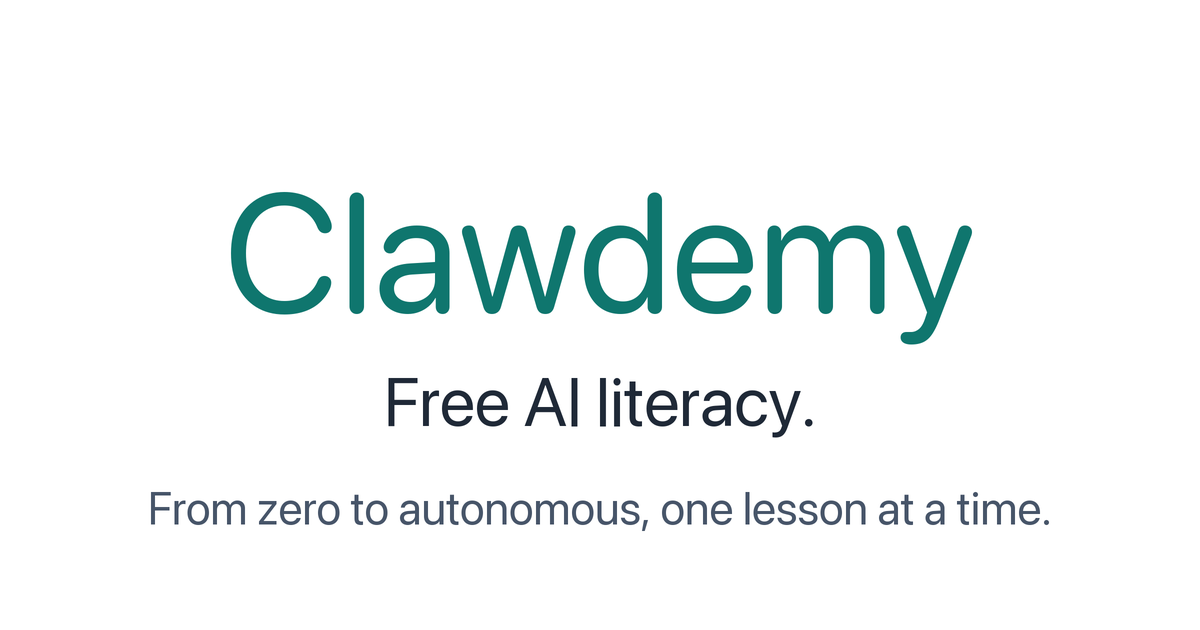
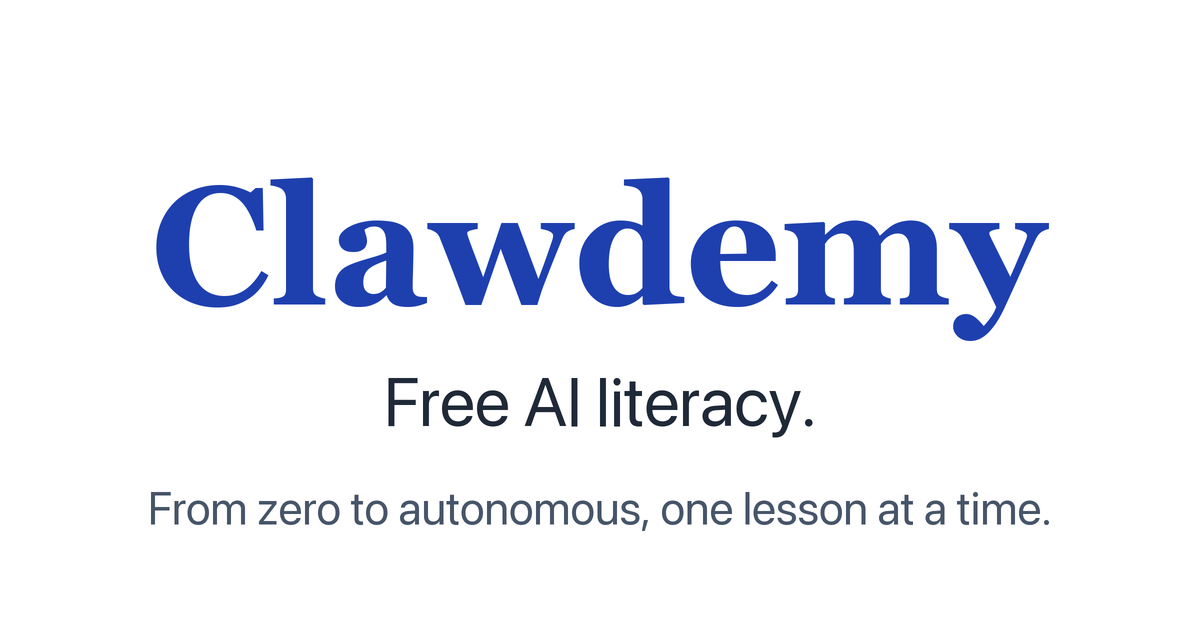
og: re-do Clawdemy OG to match RBJ-family typography (Georgia Bold)
Founder feedback on the prior Clawdemy OG (aaaa3e3, teal-700 +
SF Pro Rounded): "Clodemy should match Clawless if possible. White
background, bluish... Your design should match the way you build
RBJ Global. RBJ Global is the parent, and the rest of them are
siblings, so they should have resemblances to RBJ Global."

## Changes

- **Wordmark color: teal-700 #0F766E → blue-700 #1E40AF** ("bluish"
  per founder direction). Distinct from WhisprDesk's royal blue
  #1F49C4 (different hue/saturation) and from Clawless's cyan-700
  #0E7490 (cyan-leaning vs Clawdemy's true blue). Each sibling
  carries its own color identity while staying in the cool-color
  half of the family.
- **Wordmark font: SF Pro Rounded → Georgia Bold**. Adopts the
  parent-family typographic treatment from RBJ Global and its
  newly-aligned Clawless sibling (companion commit 98c32ec on
  clawless-site). The three products now share Georgia Bold at the
  family-default 168px wordmark size; WhisprDesk's earlier
  SF Pro Rounded ship stands separately.

## Family identity matrix (post-change)

| Product | Color | Font | Title size |
|---|---|---|---|
| RBJ Global (parent) | warm brown #6B4226 | Georgia Bold | 168px |
| Clawless (sibling) | cyan-700 #0E7490 | Georgia Bold | 168px |
| Clawdemy (this product) | blue-700 #1E40AF | Georgia Bold | 168px |
| WhisprDesk (independent) | royal blue #1F49C4 | SF Pro Rounded | 168px |

## Generator script update
[…]

Changed region(s): [[0.1233, 0.2714, 0.8633, 0.5429]]

diff --git a/scripts/generate-og-image.py b/scripts/generate-og-image.py
@@ -59,17 +59,21 @@ BG = (255, 255, 255)
 # Teal reads as "growth / learning / wisdom" and stays in the cool-color
 # half of the family without overlapping clawless's cyan or whisprdesk's
 # royal blue.
-TITLE_COLOR = (15, 118, 110)   # #0F766E
+TITLE_COLOR = (30, 64, 175)    # #1E40AF blue-700 (founder feedback 2026-05-16: "bluish, match Clawless")
 
 # Family DNA text colors. Do not vary per product.
 TAGLINE_COLOR = (31, 41, 55)   # slate-800 #1f2937
 DETAIL_COLOR = (71, 85, 105)   # slate-600 #475569
 
-# Fonts. SF Pro Rounded for the wordmark matches whisprdesk and clawless.
-# Clawdemy's site uses Inter sans-serif as primary, so a rounded sans for
-# the wordmark stays in the family typographic register.
+# Fonts. Georgia Bold for the wordmark per founder feedback 2026-05-16:
+# "Your design should match the way you build RBJ Global. RBJ Global is
+# the parent, and the rest of them are siblings, so they should have
+# resemblances to RBJ Global." Clawdemy adopts the same heavy serif
+# treatment as RBJ Global and Clawless — family-DNA-typography across
+# the three RBJ Global products + the parent. WhisprDesk shipped its
+# own SF Pro Rounded treatment earlier and stands separately.
 SF_REGULAR = "/System/Library/Fonts/SFNS.ttf"
-SF_ROUNDED = "/System/Library/Fonts/SFNSRounded.ttf"
+GEORGIA_BOLD = "/Library/Fonts/Supplemental/Georgia Bold.ttf"
 
 
 def load_font(path: str, size: int) -> ImageFont.FreeTypeFont:
@@ -85,7 +89,7 @@ def main() -> None:
     img = Image.new("RGB", (RENDER_W, RENDER_H), BG)
     draw = ImageDraw.Draw(img)
 
-    title_font = load_font(SF_ROUNDED, 168 * SCALE)
+    title_font = load_font(GEORGIA_BOLD, 168 * SCALE)
     tagline_font = load_font(SF_REGULAR, 68 * SCALE)
     detail_font = load_font(SF_REGULAR, 46 * SCALE)
 
